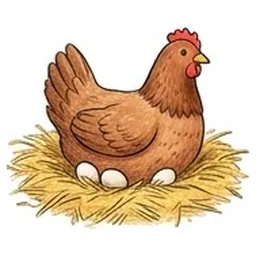
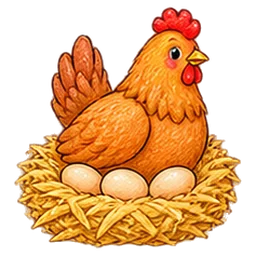
Images : planche Fond blanc 4 (25 mots refaits au crayon, détourés) — refonte des fonds blancs terminée
Claude-Session: https://claude.ai/code/session_01UkP11uCuPaN6MyB6YyqYQX

diff --git a/sw.js b/sw.js
@@ -1,6 +1,6 @@
 // Service worker : fonctionnement hors ligne.
 // Pensez à changer VERSION à chaque mise à jour des fichiers pour que les téléphones la récupèrent.
-var VERSION = "v218";
+var VERSION = "v219";
 var CACHE = "jeux-ecole-" + VERSION;
 var FILES = [
   "./",

diff --git a/CLAUDE.md b/CLAUDE.md
@@ -130,7 +130,7 @@ Cibles >= 56px, bordures 3px, textes secondaires >= 16px, menus centrés vertica
 - **Mots activés (remplace les leçons cochées, à la demande de l'utilisateur)** : Paramètres → 📖 Mots d'allemand → interrupteur ✅ par mot, boutons Tout/Aucun par leçon et Tout activer/désactiver, **par profil** (pastilles des profils). Clé `de_off@<profil>` = mots désactivés (`deOff`, `deOffSave`, `deOn`, `deOnSet` dans `allemand-mots.js`) ; au premier usage, désactivés = mots hors des leçons cochées pour Finde das Wort ; un mot ajouté plus tard est activé d'office. Tous les jeux (pool de `deutsch.html`, `memory.html`, `courses.html`) tirent les mots activés ; difficulté allemand ×1,25 si plus de 60 mots activés. Le menu « 🎮 Réglages des jeux » est retiré des Paramètres (doublon, à la demande de l'utilisateur) : seule l'entrée « 📖 Mots d'allemand » reste (page `jeux` conservée mais inaccessible). **Le manuel reste en mémoire** (rangement par leçon, `deSelected`/`deSave`, page `lecons` masquée mais conservée).
 - (Ancien, conservé mais plus utilisé) Paramètres → 🎮 Réglages des jeux → Der · Die · Das / Finde das Wort : leçons cochées **par jeu et par profil** (clés `de_sel_dde@<profil>`, `de_sel_fdw@<profil>`, défaut `DE_DEFAULT` = leçons 1-10). Les jeux ne tirent que les mots des leçons cochées (message s'il y en a moins de 3).
 - **Dictionnaire hors manuel** (à la demande de l'utilisateur) : mots ajoutés en dehors du manuel, en **leçon 100** (`DE_DICT`, module `dico` « 📖 Dictionnaire · Mots en plus », période 0 affichée « 📖 Hors manuel » dans les réglages des leçons). **Coché d'office** dans tous les jeux (`deSelected` l'ajoute sauf si la liste enregistrée contient `-100` = décoché volontairement ; `deSave` ajoute `-100` quand il n'est pas coché). Mots : **die Klementine** (dessin `DE_SVG` : deux clémentines ; aussi dans `DE_BUY` pour la liste des courses). Pour ajouter un mot : une ligne `"100|article|Mot|emoji"` (ou image vide + dessin dans `DE_SVG`).
-- **Images Gemini (en cours)** : l'utilisateur génère les images des mots dans l'appli Gemini de son téléphone, un peu chaque jour, avec les consignes de `outils/gemini-images.md` (produit par `outils/gen_prompts.py` : style commun + sujet par mot, 230 mots, mots sans image d'abord, 20 par jour). Il renvoie les images dans la session avec leurs numéros (conseil donné : coller d'abord un message de style unique dans une nouvelle conversation, puis un sujet par message ; Gemini peut proposer plusieurs variantes, on garde la meilleure). Intégration : `python3 outils/images.py <image> <Mot> …` rogne le blanc, met en carré, réduit à 256 px, enregistre `jeux/img/de/<slug>.webp` (ä→ae, ö→oe, ü→ue, ß→ss), met à jour `DE_IMG` dans `allemand-mots.js` (l'image est prioritaire sur l'emoji et le dessin : `deImg` = `<img class="deimg">` 1,3em, chemin relatif à l'accueil) et la liste entre `// images-de` dans `sw.js`. Puis changer `VERSION`. Faites : 1 à 125 (tous les mots ont une image). **Planches 2 à 6 (126-230, tous les mots du manuel en style crayon) et Lerne A (L1-L25) faites avec ChatGPT, images détourées sur fond transparent : découpe `python3 outils/decoupe.py planche.png dossier` (composantes connexes : parasites retirés, traits fins gardés, dessins entiers même s'ils débordent ; `colonnes lignes` en option, ex. `5 1`), puis `images.py` (garde la transparence). **Prompts prêts : `outils/chatgpt-planches.md`** (planche 3, planche 5 avec chiffres, et Lerne A/B/C = les 74 mots de « Lerne neue Wörter » sans image, numérotés L1-L74, grilles 5 × 5 ; à intégrer avec `decoupe.py` puis `images.py <img> <Mot>`, ce qui les fait entrer dans l'exercice). Lerne B et C faites (planche de 49 sur fond blanc : fond retiré par remplissage depuis les bords, puis découpe en lignes repérées à la main ; « sagen » illustré ensuite par la planche Océan : deux enfants qui se parlent, bulle avec un cœur ; **tous les mots ont désormais une image**) ; **les nombres (zwei, sechs, sieben, neun, zwölf) = gros chiffres dessinés, pas des objets à compter** (à la demande de l'utilisateur : zwei, neun, sieben, sechs refaits avec la planche 5, en grille 6 × 5, dernière case vide) (prompt : vraie transparence, pas de damier, pas de cadre, sujets séparés ; sujets blancs avec contour, pas de décor).** Rappel quotidien à 11 h 53 (Paris) demandé par l'utilisateur : tâche planifiée « Rappel : images Gemini manquantes » (`trig_01YDTJjxTUJCC9bXXBs6b6VL`), à supprimer quand tout est fait, brauchen refait avec parapluie ; **Fond blanc 1, 2, 3 et 5 (W1-W75, W101-W124) faites, reste la 4** (Regen, säen, sauber recoupés à la main : la découpe automatique prenait les gouttes, graines et étincelles pour des parasites) (planche ChatGPT transparente, `decoupe.py … 5 5` puis `images.py`) ; planches d'harmonisation : planche 1 faite (kneten, Jäger refaits, 103-125) (planches découpées ; les cases à bordure grise sont détectées par profils de pixels non blancs, puis rognées de 9 px). Gemini peut générer une planche de 20 images en une fois : découper en grille (cases de largeur/5), puis outils/images.py. Noter chaque mot Gemini fait dans `outils/gemini-faits.txt`.
+- **Images Gemini (en cours)** : l'utilisateur génère les images des mots dans l'appli Gemini de son téléphone, un peu chaque jour, avec les consignes de `outils/gemini-images.md` (produit par `outils/gen_prompts.py` : style commun + sujet par mot, 230 mots, mots sans image d'abord, 20 par jour). Il renvoie les images dans la session avec leurs numéros (conseil donné : coller d'abord un message de style unique dans une nouvelle conversation, puis un sujet par message ; Gemini peut proposer plusieurs variantes, on garde la meilleure). Intégration : `python3 outils/images.py <image> <Mot> …` rogne le blanc, met en carré, réduit à 256 px, enregistre `jeux/img/de/<slug>.webp` (ä→ae, ö→oe, ü→ue, ß→ss), met à jour `DE_IMG` dans `allemand-mots.js` (l'image est prioritaire sur l'emoji et le dessin : `deImg` = `<img class="deimg">` 1,3em, chemin relatif à l'accueil) et la liste entre `// images-de` dans `sw.js`. Puis changer `VERSION`. Faites : 1 à 125 (tous les mots ont une image). **Planches 2 à 6 (126-230, tous les mots du manuel en style crayon) et Lerne A (L1-L25) faites avec ChatGPT, images détourées sur fond transparent : découpe `python3 outils/decoupe.py planche.png dossier` (composantes connexes : parasites retirés, traits fins gardés, dessins entiers même s'ils débordent ; `colonnes lignes` en option, ex. `5 1`), puis `images.py` (garde la transparence). **Prompts prêts : `outils/chatgpt-planches.md`** (planche 3, planche 5 avec chiffres, et Lerne A/B/C = les 74 mots de « Lerne neue Wörter » sans image, numérotés L1-L74, grilles 5 × 5 ; à intégrer avec `decoupe.py` puis `images.py <img> <Mot>`, ce qui les fait entrer dans l'exercice). Lerne B et C faites (planche de 49 sur fond blanc : fond retiré par remplissage depuis les bords, puis découpe en lignes repérées à la main ; « sagen » illustré ensuite par la planche Océan : deux enfants qui se parlent, bulle avec un cœur ; **tous les mots ont désormais une image**) ; **les nombres (zwei, sechs, sieben, neun, zwölf) = gros chiffres dessinés, pas des objets à compter** (à la demande de l'utilisateur : zwei, neun, sieben, sechs refaits avec la planche 5, en grille 6 × 5, dernière case vide) (prompt : vraie transparence, pas de damier, pas de cadre, sujets séparés ; sujets blancs avec contour, pas de décor).** Rappel quotidien à 11 h 53 (Paris) demandé par l'utilisateur : tâche planifiée « Rappel : images Gemini manquantes » (`trig_01YDTJjxTUJCC9bXXBs6b6VL`), à supprimer quand tout est fait, brauchen refait avec parapluie ; **Fond blanc 1 à 5 (W1-W124) toutes faites** (Regen, säen, sauber, brauchen, gießen, hell, jung, lila recoupés à la main : la découpe automatique prenait gouttes, graines, étincelles, rayons pour des parasites) (planche ChatGPT transparente, `decoupe.py … 5 5` puis `images.py`) ; planches d'harmonisation : planche 1 faite (kneten, Jäger refaits, 103-125) (planches découpées ; les cases à bordure grise sont détectées par profils de pixels non blancs, puis rognées de 9 px). Gemini peut générer une planche de 20 images en une fois : découper en grille (cases de largeur/5), puis outils/images.py. Noter chaque mot Gemini fait dans `outils/gemini-faits.txt`.
 - **Fluent Emoji 3D** (à la demande de l'utilisateur : « Fluent pour tout ce qui représente très bien les mots, Gemini pour les autres ») : `outils/fluent.py` (liste `F` mot → emoji ; plusieurs emoji = images côte à côte, ex. Vögel, Bäume, Mäuse, zwölf) télécharge `@lobehub/fluent-emoji-3d` (npm, MIT) et écrit `jeux/img/de/<slug>.webp`, sans jamais écraser un mot de `gemini-faits.txt`. 128 mots en Fluent ; retirés car pas assez clairs : Fuß, Nebel, waschen, Freund, Freundin (→ Gemini). Ensuite (demande de l'utilisateur : « passer toute émoticône en images générées », style crayon unique) : les mots Fluent sont numérotés 103-230 dans `gemini-images.md`, et `outils/gemini-planches.md` donne des planches de 25 prêtes à coller (planche 1 = refaire aussi kneten et der Jäger). Une image Gemini remplace l'image Fluent (ajouter le mot à `gemini-faits.txt`).
 - **📖 Mots d'allemand** (Paramètres, à la demande de l'utilisateur : « gérer la liste de mots allemand et leur image, rajouter des mots ; tu me demanderas les images ») : pages `dewords` (liste par leçon avec image, recherche, « + Ajouter un mot », carte « 🖼 Mots sans image » avec consigne Gemini à copier, `dwPrompt`) et `deword` (fiche : 📷 choisir une image sur le téléphone → éditeur `phOpen(f, cb)` en carré, fond blanc, 256 px WebP ; image d'origine ; pour un mot ajouté : article, mot (majuscule auto pour un nom), leçon (défaut 100 = Dictionnaire), « image à dessiner » en français, liste des courses ; masquer un mot du manuel ; supprimer un mot ajouté). Données sur le téléphone : `localStorage.de_words = {add:[{id,n,a,w,fr,buy}], img:{Mot:dataURL}, hide:[Mot]}` ; `deBuild()` (fin de `allemand-mots.js`) calcule `DE_ALL` (tout), `DE_WORDS` (sans les masqués), `DE_BUY` (= `DE_BUY0` + mots ajoutés « courses ») ; image du téléphone > image du dépôt > emoji > dessin. Quand l'utilisateur envoie les images de ses mots ajoutés, les intégrer au dépôt (ligne `DE_RAW` + `outils/images.py`) : un mot du dépôt l'emporte sur le même mot ajouté.
 - **warm** = thermomètre rouge presque plein avec des vagues de chaleur (dessin SVG maison rendu en `jeux/img/de/warm.webp`, à la demande de l'utilisateur : le soleil faisait doublon avec sonnig).
